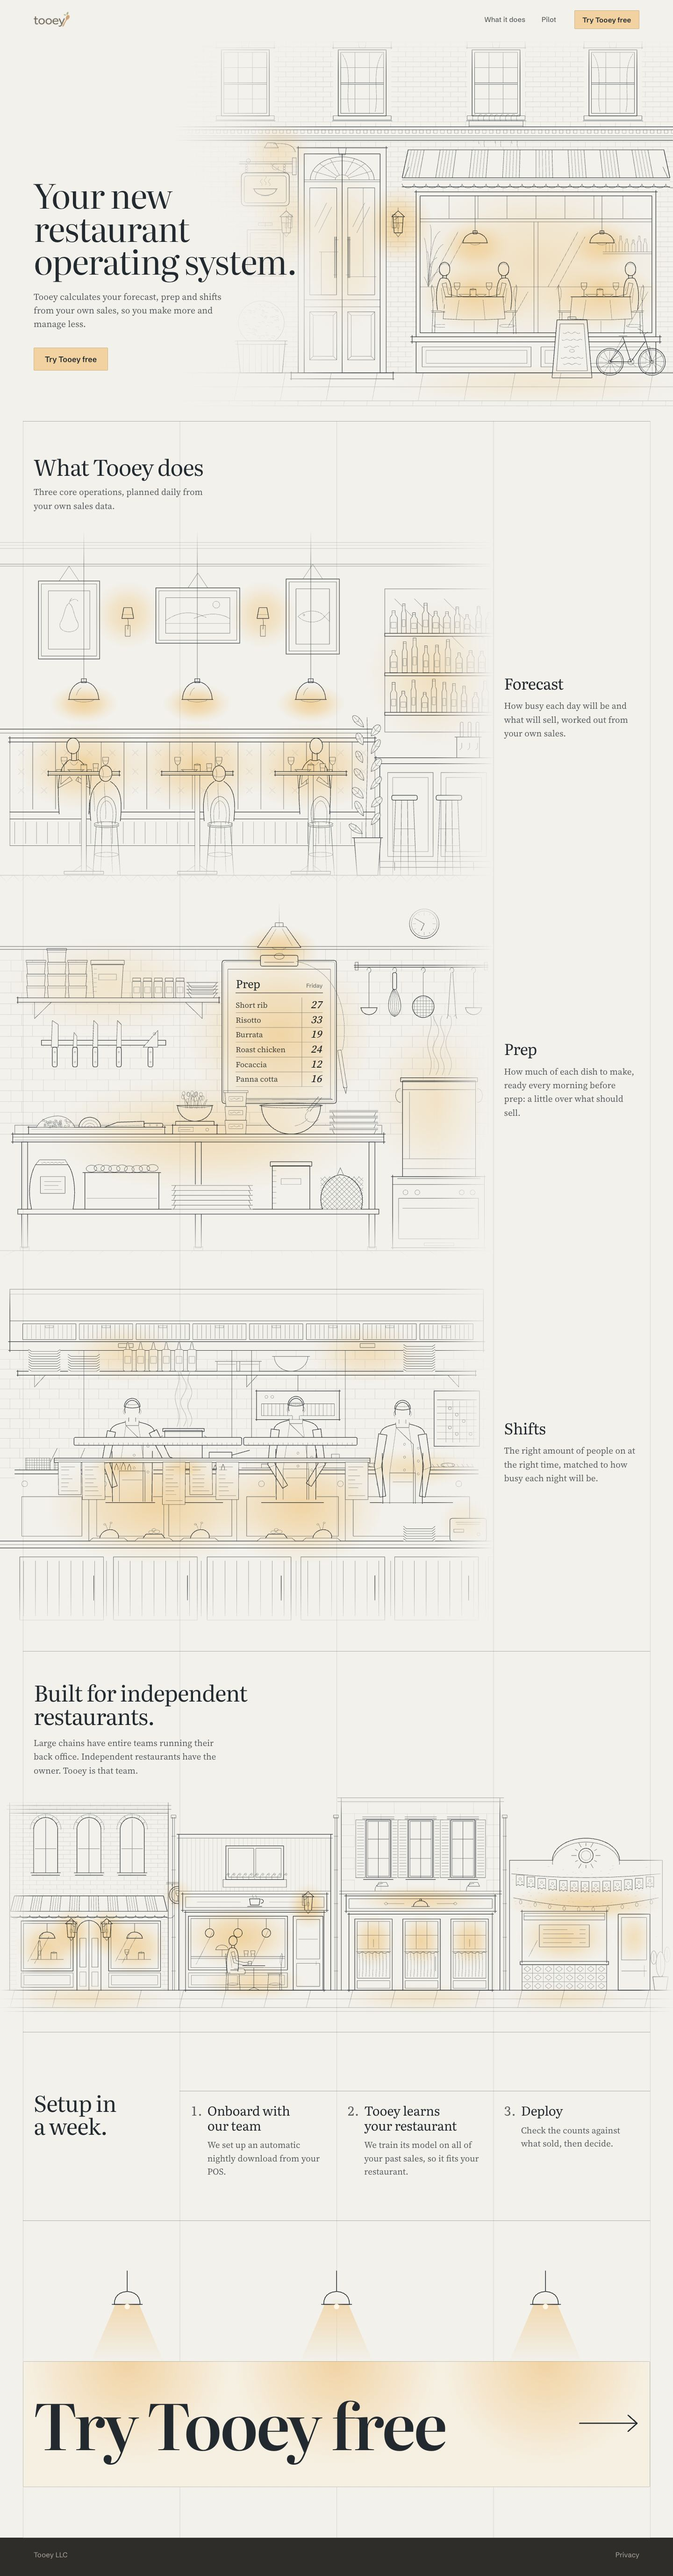
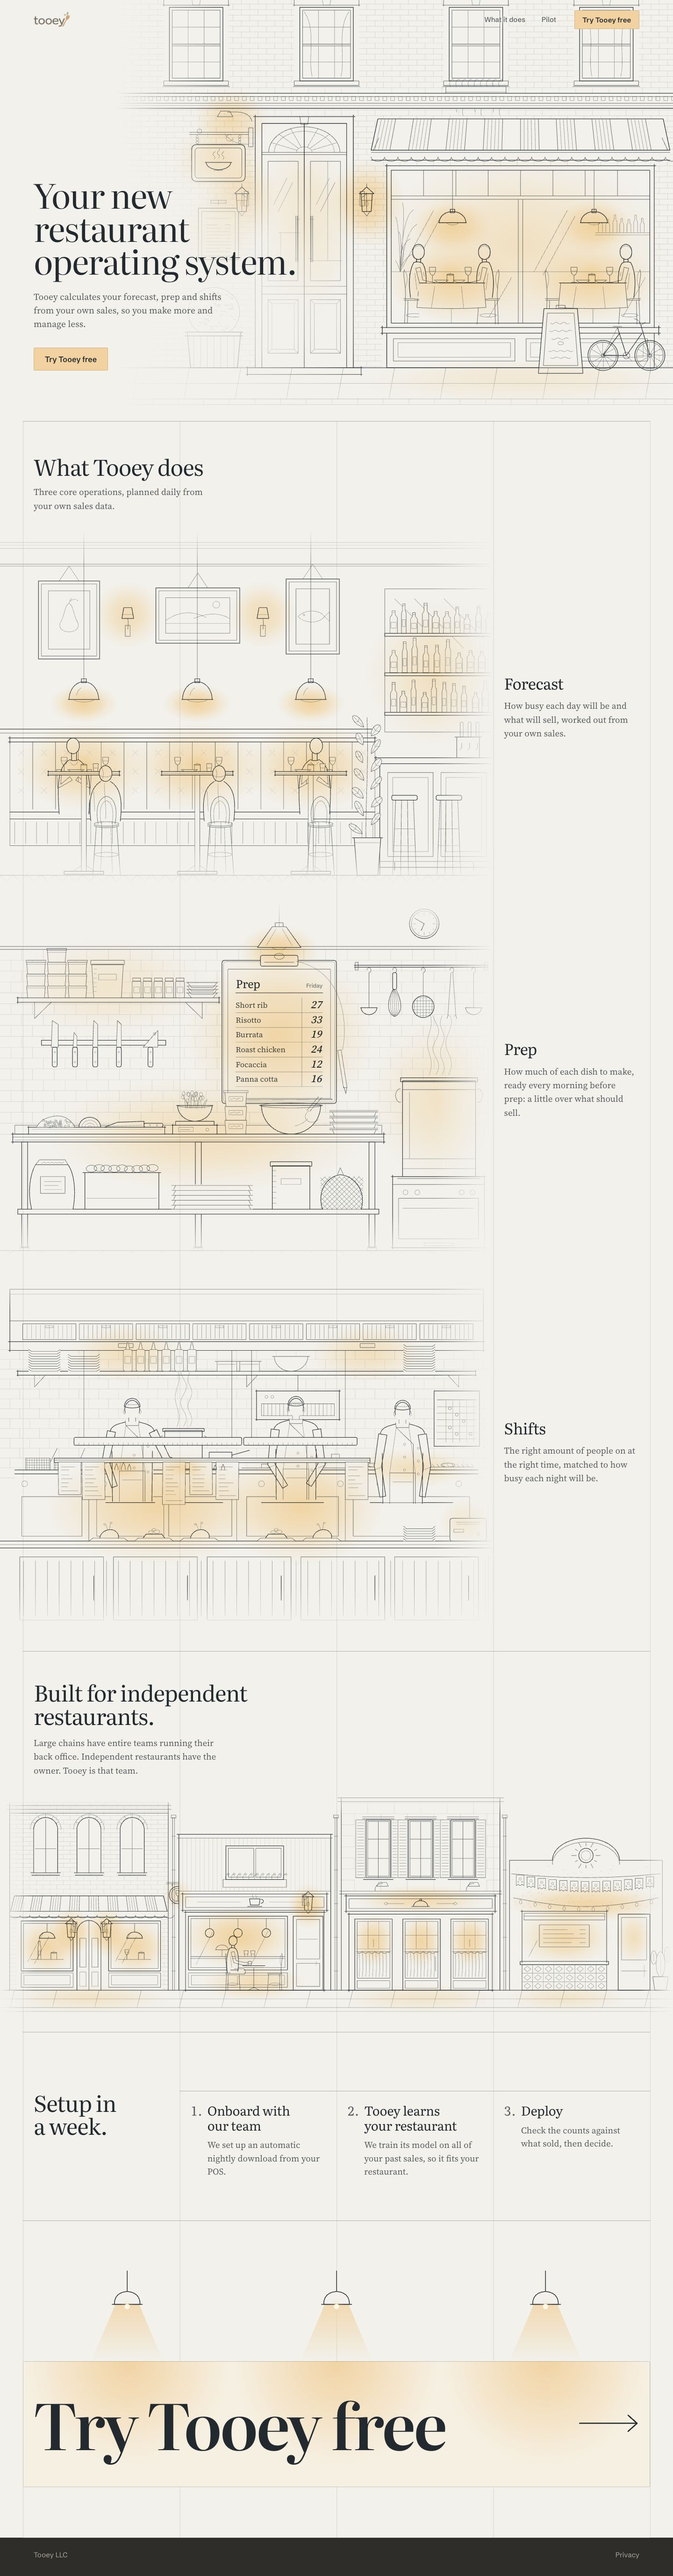
Exploration 44: bigger street reaching under a clear header, faster typing

Changed region(s): [[0.25, 0.0, 1.0, 0.1562]]

diff --git a/explorations/44-typed-os/styles.css b/explorations/44-typed-os/styles.css
@@ -135,8 +135,14 @@ section[id], main { scroll-margin-top: var(--top); }
   display: grid;
   grid-template-columns: repeat(4, 1fr);
   align-items: center;
-  background: var(--porcelain);
+  background: rgba(242, 241, 236, 0);
+  transition: background-color .35s ease;
 }
+/* clear over the top of the hero, so the street runs up under it; once the
+   page scrolls (site.js adds .is-solid) it fills with porcelain */
+.top.is-solid { background: var(--porcelain); }
+/* over the drawing, the nav words keep a little cleared paper round them */
+.top:not(.is-solid) .nav a:not(.btn) { text-shadow: 0 0 4px var(--porcelain), 0 0 10px var(--porcelain), 0 0 16px var(--porcelain); }
 .top > * { position: relative; }
 .top::after {
   /* no rule under the header: the page fades out as it slides under it */
@@ -144,7 +150,10 @@ section[id], main { scroll-margin-top: var(--top); }
   height: 28px;
   pointer-events: none;
   background: linear-gradient(to bottom, var(--porcelain), rgba(242, 241, 236, 0));
+  opacity: 0;
+  transition: opacity .35s ease;
 }
+.top.is-solid::after { opacity: 1; }
 .brand { grid-column: 1; padding-left: var(--pad); justify-self: start; }
 .brand img { width: auto; height: 34px; }
 .nav {
@@ -355,20 +364,22 @@ html:not(.motion) .steam { stroke-opacity: .3; }
 }
 .hero::before, .hero::after { display: none; }
 .scene-hero {
+  /* runs from above the top of the page, under the header, to the
+     pavement; wide enough to reach behind the headline */
   position: absolute;
   right: 0; bottom: 1vh;
-  height: min(95vh, 1040px);
+  height: min(106vh, 1165px);
   aspect-ratio: 1000 / 800;
 }
 .scene-hero .art {
   height: 100%;
   -webkit-mask-image:
-    linear-gradient(to right, transparent 0%, rgba(0,0,0,.35) 12%, #000 30%),
-    linear-gradient(to bottom, transparent 0%, #000 14%, #000 88%, transparent 100%);
+    linear-gradient(to right, transparent 0%, rgba(0,0,0,.5) 7%, #000 18%),
+    linear-gradient(to bottom, #000 0%, #000 88%, transparent 100%);
   -webkit-mask-composite: source-in;
   mask-image:
-    linear-gradient(to right, transparent 0%, rgba(0,0,0,.35) 12%, #000 30%),
-    linear-gradient(to bottom, transparent 0%, #000 14%, #000 88%, transparent 100%);
+    linear-gradient(to right, transparent 0%, rgba(0,0,0,.5) 7%, #000 18%),
+    linear-gradient(to bottom, #000 0%, #000 88%, transparent 100%);
   mask-composite: intersect;
 }
 .hero-copy {

diff --git a/explorations/_gallery/data.js b/explorations/_gallery/data.js
@@ -554,13 +554,13 @@ window.EXPLORATIONS = [
   {
     id: '44-typed-os', num: '44', name: '35, typed', round: 14,
     href: '44-typed-os/', notes: '44-typed-os/NOTES.md', words: 194, motion: 'Typed headline; pinned three-step section',
-    line: '35 with the headline typed out under a block cursor, a header with no rules, a clean hero and a shorter pin.',
+    line: '35 with the headline typed out under a block cursor, a clear header the street runs under, a bigger street and a shorter pin.',
     brief: 'Round fourteen: back to 35, kept small. A typed headline, a smooth header, no column rules in the hero, the pin cut from 340vh to 250vh.',
     headline: 'Your new restaurant operating system.',
     concept: 'On load a block cursor waits, then types the headline at an uneven hand and the line under it a little faster. It blinks a moment at the end and goes, and the button fades in.',
-    look: '35 unchanged, except: the header has no hairline and no column rules, the page fades out under it, and the hero has no column rules.',
+    look: '35 unchanged, except: the header is clear over the hero and fills on scroll, with no hairline or column rules; the street is bigger, reaching further left and up under the nav; the hero has no column rules.',
     strengths: ['Keeps 35, which you preferred.', 'The typing reads as a screen without changing the type.', 'The pin no longer drags.'],
-    weaknesses: ['The headline is blank for about half a second before it types.', 'Phone views were not reviewed this round.'],
+    weaknesses: ['The headline is blank for about 0.4s before it types.', 'The upper windows are cut by the top of the page.', 'Phone views were not reviewed this round.'],
     ask: 'Is the typing the right speed, and is the cursor the right weight?',
     pages: [{ label: 'Home', href: '44-typed-os/index.html' }, { label: 'Privacy', href: '44-typed-os/privacy.html' }]
   }

diff --git a/explorations/44-typed-os/site.js b/explorations/44-typed-os/site.js
@@ -19,6 +19,7 @@
   form();
   dialog();
   snapping();
+  headerFill();
   if (!window.TooeyScenes) return;
   var S = window.TooeyScenes;
 
@@ -124,7 +125,7 @@
       var sum = w.reduce(function (a, b) { return a + b; }, 0), acc = t0;
       return w.map(function (v) { acc += v / sum * total; return acc; });
     }
-    var H0 = 520, HT = 1350, L0 = H0 + HT + 380, LT = 950;
+    var H0 = 420, HT = 1100, L0 = H0 + HT + 220, LT = 380;
     var th = plan(hc, HT, H0), tl = plan(lc, LT, L0);
     var cur = null, hi = 0, li = 0, t0 = performance.now();
     function caret(el, pre) {
@@ -151,6 +152,15 @@
         copy.className = 'hero-copy';
       }, 2500);
     })(t0);
+  }
+  // the header is clear at the very top, over the street, and fills with
+  // porcelain as soon as the page scrolls
+  function headerFill() {
+    var top = document.querySelector('.top');
+    if (!top) return;
+    function set() { top.classList.toggle('is-solid', window.pageYOffset > 4); }
+    set();
+    window.addEventListener('scroll', set, { passive: true });
   }
   function rnd(seed) {
     var s = seed >>> 0;

diff --git a/explorations/44-typed-os/NOTES.md b/explorations/44-typed-os/NOTES.md
@@ -1,26 +1,30 @@
 # 44 35, typed
 
 Round fourteen. Rex preferred 35 to 36 through 43, which did too much.
-44 is 35 with four small changes; 35 stays as it was for comparison.
+44 is 35 with five small changes; 35 stays as it was for comparison.
 Everything not listed here is 35's: see `../35-operating-system/NOTES.md`.
 
 ## What changed
 1. **The headline types itself out.**
-   - On load a block cursor sits where the headline starts and blinks for about half a second.
-   - Then the headline types at an uneven hand, in about 1.35s: each key lands at its own pace, now and then two or three come in a quick run, and there is a beat at each space and a longer one at the stop.
-   - The cursor drops to the line under it, waits a moment, and types it a little faster, in about 0.95s.
+   - On load a block cursor sits where the headline starts and blinks for about 0.4s.
+   - Then the headline types at an uneven hand, in about 1.1s: each key lands at its own pace, now and then two or three come in a quick run, and there is a beat at each space and a longer one at the stop.
+   - The cursor drops to the line under it, waits about 0.2s, and rattles it off in about 0.4s.
    - At the end the cursor blinks for about two seconds and fades; the button fades in as typing ends.
    - The cursor is a block in the text's own ink (slate for the headline, the lighter ink for the line under it), from cap height to the baseline and a little narrower than a letter.
    - The real words stay in the `h1` and `.lead` the whole time. While typing they are transparent and an aria-hidden copy, one span per letter, shows them as they are set; the copy is removed at the end. Letters are hidden by colour, not by width, so the copy wraps exactly as the real words do.
    - Under reduced motion, or without scripts, the words are there at once. The copy waits at most 3s for fonts before showing.
-2. **The header is smooth.** No hairline under it and no column rules through it. A 28px porcelain fade below it lets the page slide under softly.
+2. **The header is smooth.** No hairline under it and no column rules through it.
+   - At the very top of the page it is clear, so the street runs up under the logo and the nav. The nav words keep a soft porcelain halo there so they read over the drawing.
+   - Once the page scrolls more than 4px it fills with porcelain (0.35s), and a 28px porcelain fade below it lets the page slide under softly. Snapping back to the top clears it again.
 3. **No column rules in the hero.** They cut through the headline at 1440. They start again at "What Tooey does".
-4. **A shorter pin.** "What Tooey does" is 250vh instead of 340vh, about 1.5 screens of pinned scroll instead of 2.4. The three resting places and snapping are unchanged.
+4. **A bigger street.** The hero drawing is 106vh tall (up to 1165px) instead of 95vh, still anchored to the pavement, so at 1440×900 it starts about 250px from the left edge instead of 371px and its top runs 63px above the page, under the header. Its left fade is shorter (full by 18% instead of 30%) and its top no longer fades.
+5. **A shorter pin.** "What Tooey does" is 250vh instead of 340vh, about 1.5 screens of pinned scroll instead of 2.4. The three resting places and snapping are unchanged.
 
 ## Checked
-At 1440×900 in Chromium: the hero part way through the headline, part way through the line under it, and at rest; the header over the independents street and over the line cooks; each of the three pinned steps at its resting place. The copy's letters matched the real words while typing.
+At 1440×900 in Chromium: the hero at rest with the clear header and the bigger street; the header filling on scroll and clearing again after snapping back to the top; the hero part way through the headline, part way through the line under it, and at rest; the header over the independents street and over the line cooks; each of the three pinned steps at its resting place. The copy's letters matched the real words while typing.
 
 Phone views were out of scope this round and were not reviewed.
 
 ## Weakness
-The headline is blank for about half a second before the first key, which reads as a cursor waiting but leaves the hero quiet on a slow load.
+The headline is blank for about 0.4s before the first key, which reads as a cursor waiting but leaves the hero quiet on a slow load.
+The upper windows' heads are cut by the top edge of the page.
